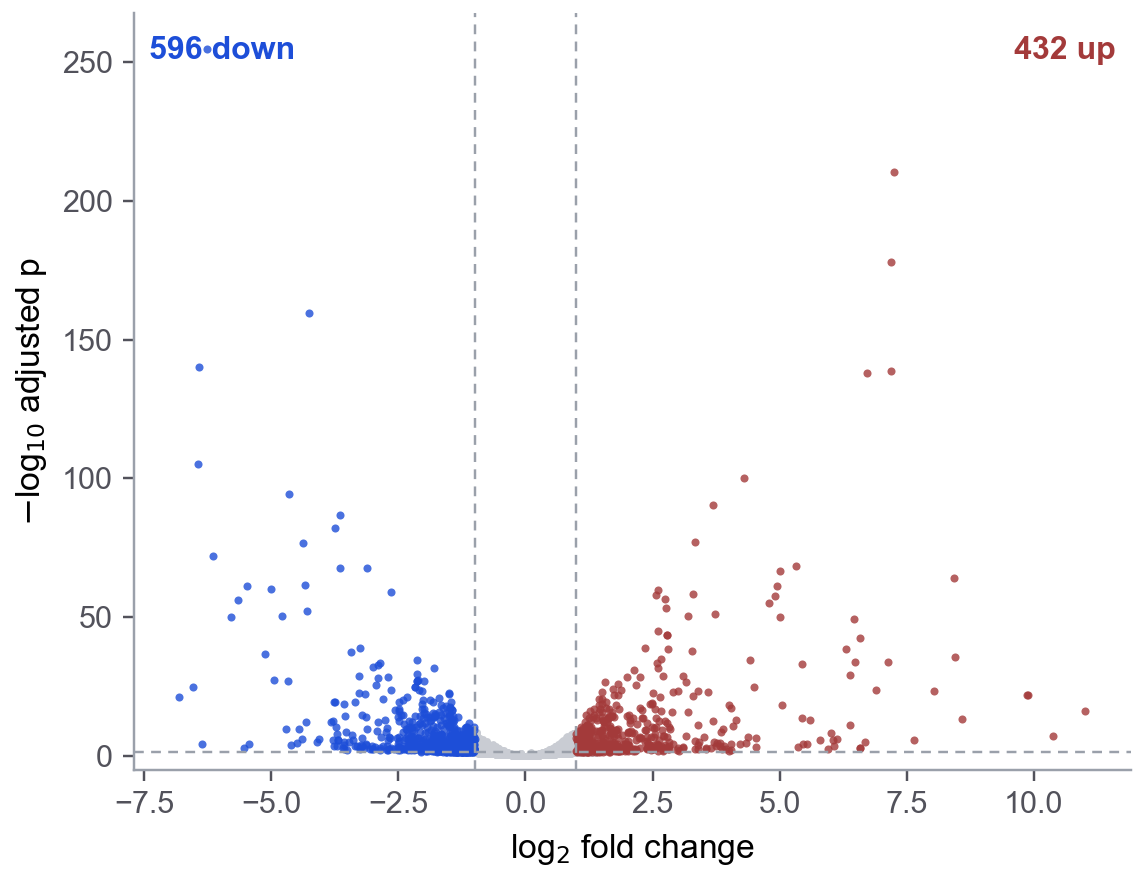
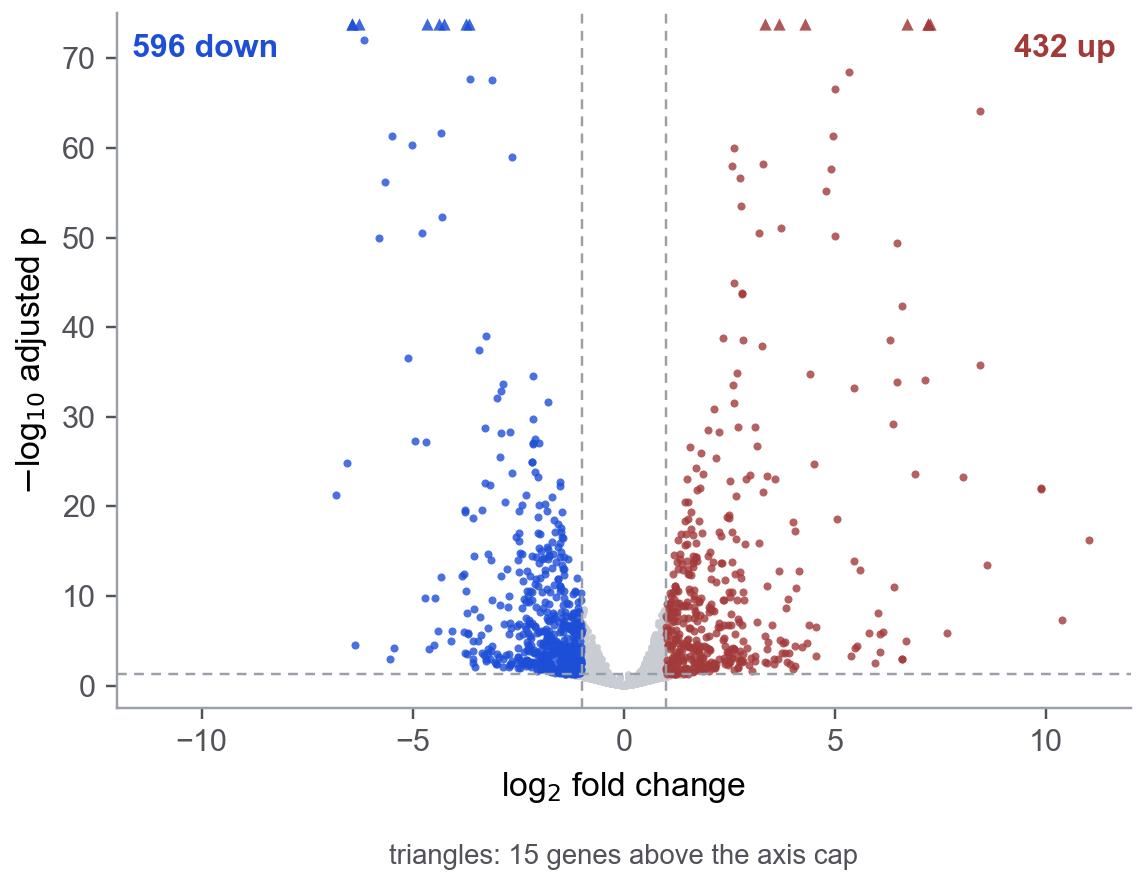
Center the volcano x axis and cap y at 75

diff --git a/index.html b/index.html
@@ -530,7 +530,7 @@ footer { padding: 24px 0 32px; color: var(--muted); font-size: 0.9rem; backgroun
       </article>
       <article class="tile">
         <figure>
-          <a href="figures/rnaseq-volcano.png"><img src="figures/rnaseq-volcano.png" width="1144" height="880" loading="lazy" alt="Volcano plot of a differential expression analysis. Log2 fold change on the x axis against minus log10 adjusted p on the y axis, with 596 significantly down genes in blue on the left and 432 up genes in red on the right, and the non-significant majority in grey around the origin."></a>
+          <a href="figures/rnaseq-volcano.png"><img src="figures/rnaseq-volcano.png" width="1144" height="880" loading="lazy" alt="Volcano plot of a differential expression analysis. Log2 fold change on the x axis against minus log10 adjusted p on the y axis, with 596 significantly down genes in blue on the left and 432 up genes in red on the right, and the non-significant majority in grey around the origin. The y axis is capped at 75 and 15 genes above it are drawn as triangles on the top edge."></a>
           <figcaption>One differential expression comparison: 6,528 genes tested, 596 down and 432 up past twofold at 5% FDR. The dataset is not named while the work is unpublished.</figcaption>
         </figure>
         <div class="tile-text">
